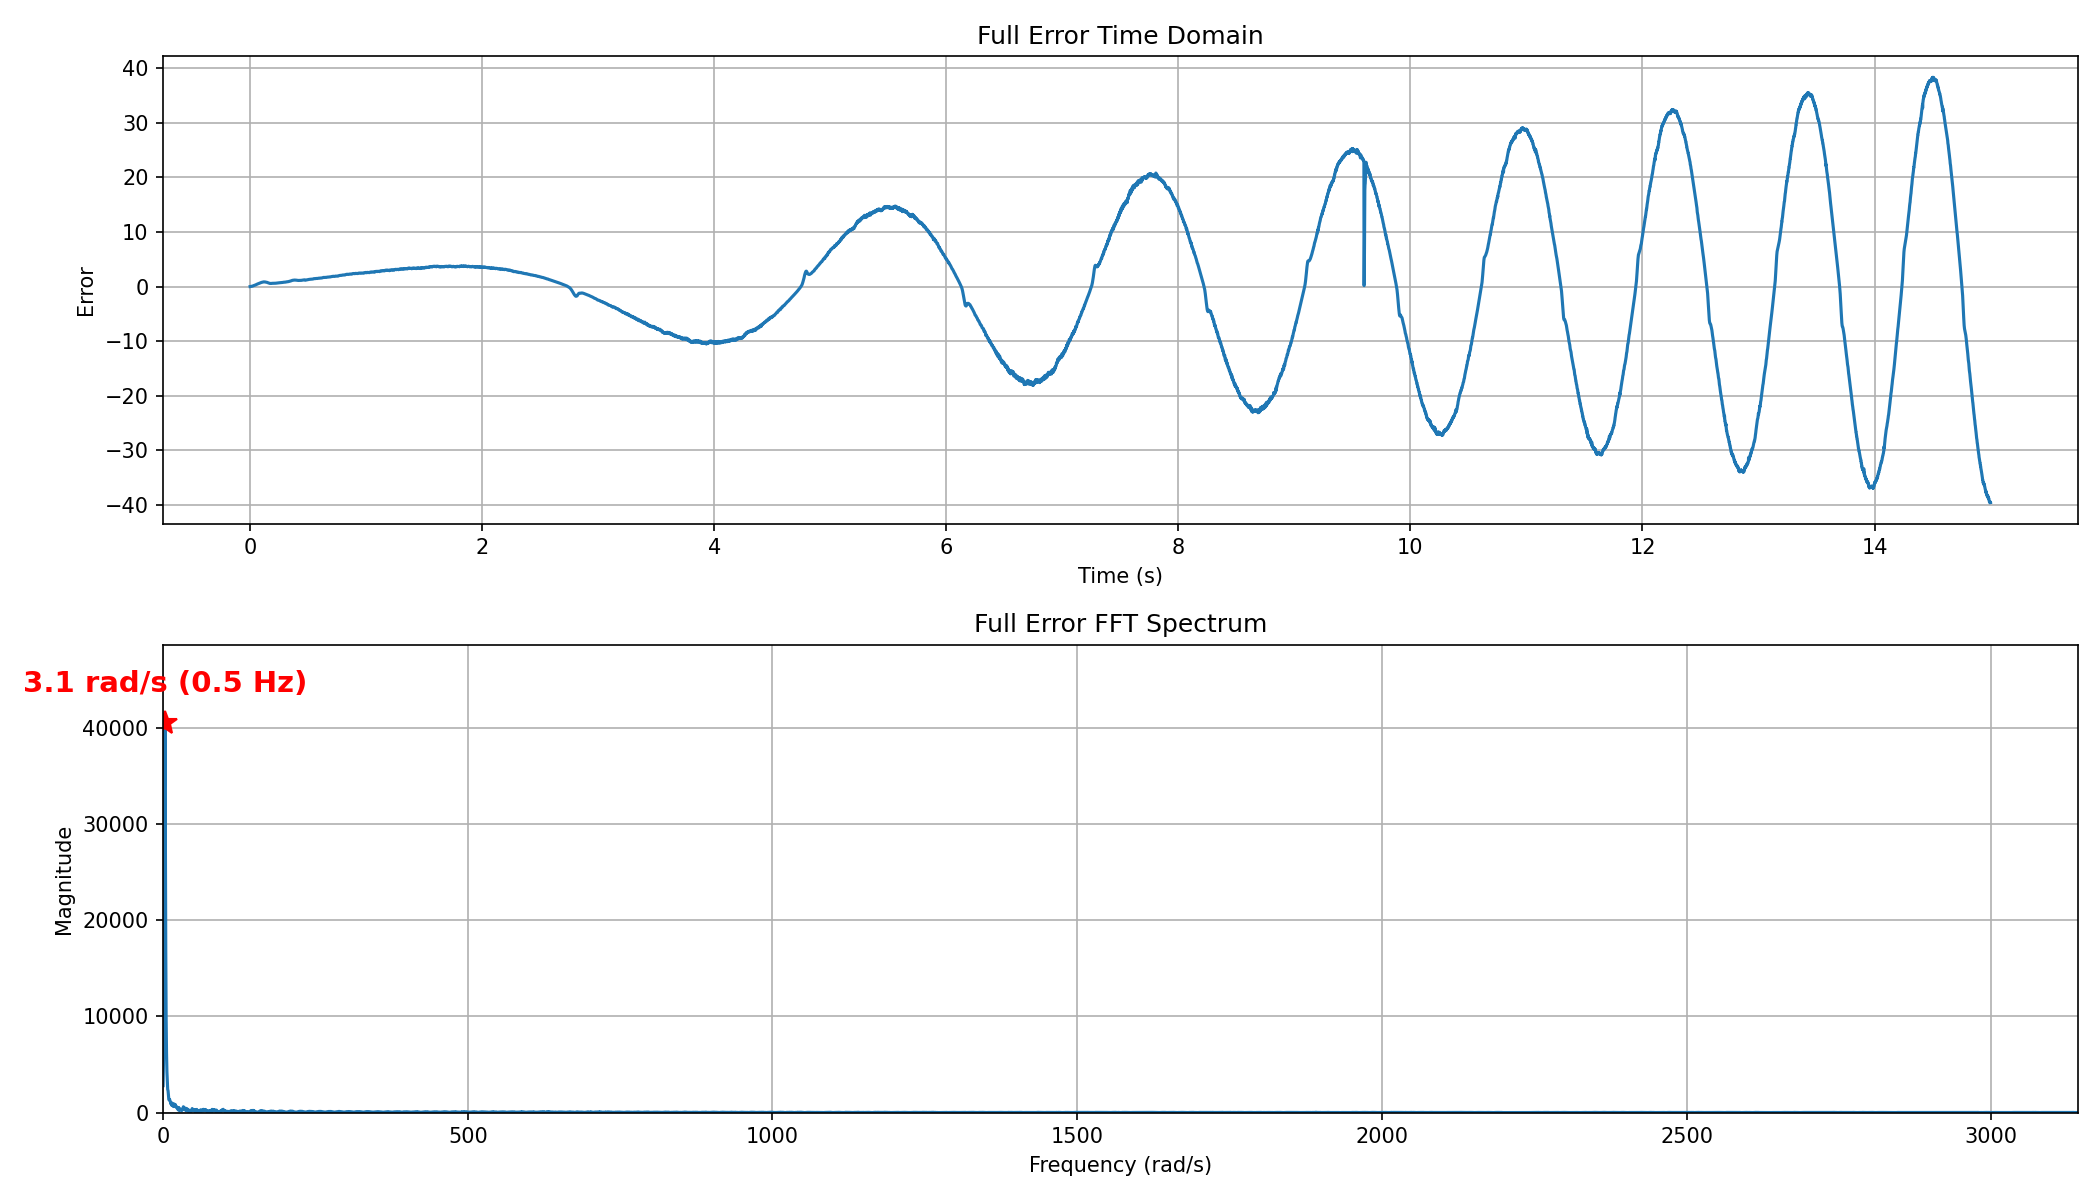
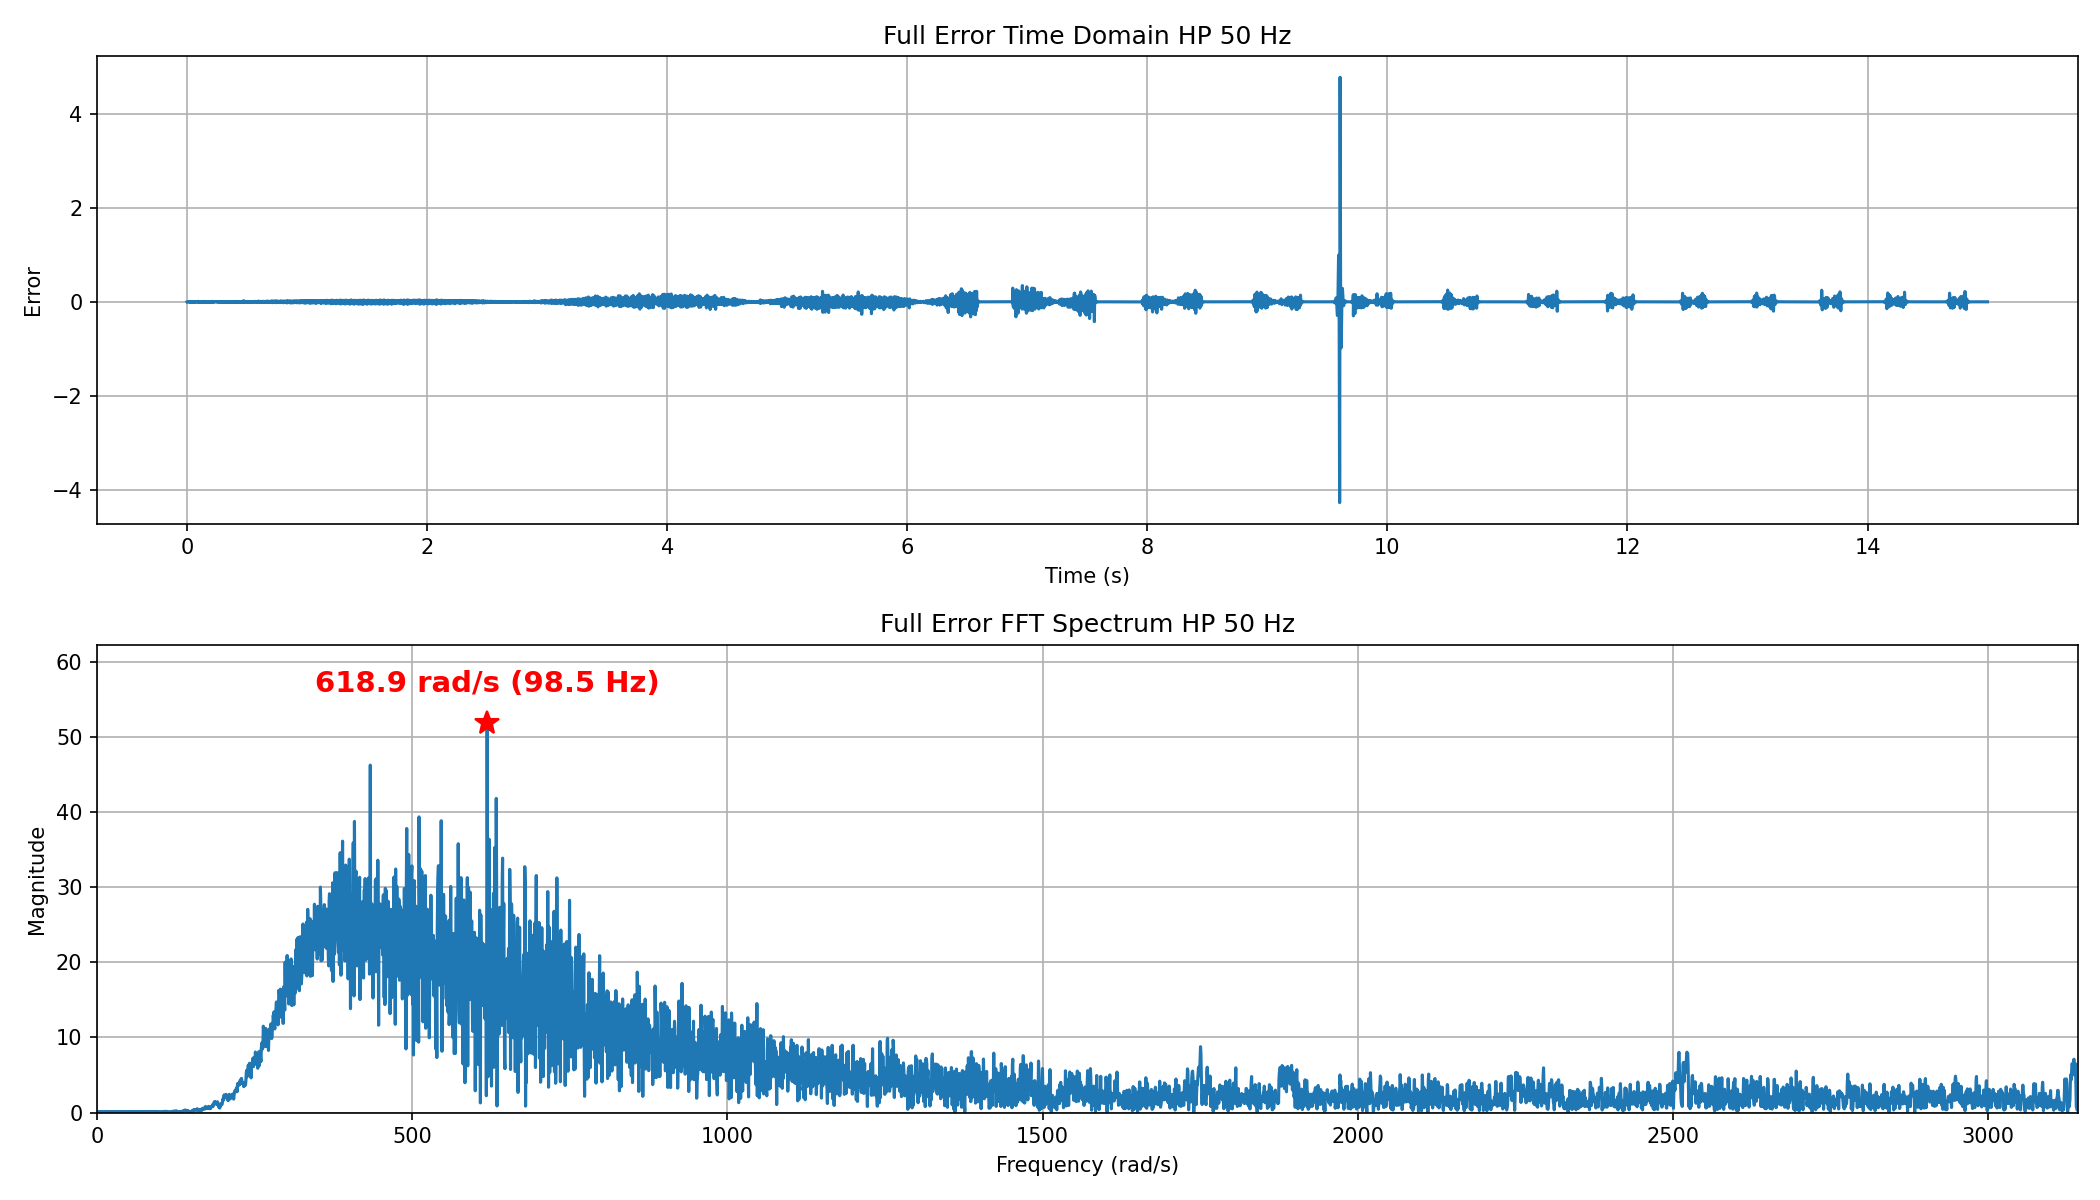
Plot_Full_FFT: 加入高通濾波、異常值移除功能

diff --git a/Main/Plot_Full_FFT.py b/Main/Plot_Full_FFT.py
@@ -7,6 +7,15 @@ import matplotlib.pyplot as plt
 import scipy.fft
 import scipy.signal
 
+# ============================================================
+# 配置參數
+# ============================================================
+HIGHPASS_FREQ_HZ = 50  # 高通濾波頻率 (Hz)，設為 None 則不濾波
+TIME_START = None      # 起始時間 (秒)，設為 None 則從頭開始
+TIME_END = None        # 結束時間 (秒)，設為 None 則到最後
+OUTLIER_THRESHOLD = 1  # 異常值門檻（標準差倍數），設為 None 則不移除
+# ============================================================
+
 
 def select_data_file() -> str:
     """選擇 runtime_data.npz 檔案"""
@@ -42,13 +51,58 @@ def main():
 
     # 合併所有誤差
     all_errors = np.concatenate(error_list)
+    total_time = len(all_errors) * Ts
+    print(f'總時間: {total_time:.2f} 秒')
+    
+    # 時間段截取
+    start_idx = int(TIME_START / Ts) if TIME_START else 0
+    end_idx = int(TIME_END / Ts) if TIME_END else len(all_errors)
+    start_idx = max(0, start_idx)
+    end_idx = min(len(all_errors), end_idx)
+    all_errors = all_errors[start_idx:end_idx]
+    time_offset = start_idx * Ts
+    
+    if TIME_START or TIME_END:
+        actual_start = start_idx * Ts
+        actual_end = end_idx * Ts
+        print(f'選取時間段: {actual_start:.2f} ~ {actual_end:.2f} 秒 ({len(all_errors)} 點)')
+    
     all_errors = all_errors - np.mean(all_errors)
 
+    # 移除異常值（脈衝尖峰）
+    if OUTLIER_THRESHOLD:
+        std = np.std(all_errors)
+        threshold = OUTLIER_THRESHOLD * std
+        outlier_mask = np.abs(all_errors) > threshold
+        outlier_count = np.sum(outlier_mask)
+        if outlier_count > 0:
+            # 用線性插值替代異常值
+            all_errors_clean = all_errors.copy()
+            indices = np.arange(len(all_errors))
+            valid_mask = ~outlier_mask
+            all_errors_clean[outlier_mask] = np.interp(
+                indices[outlier_mask], 
+                indices[valid_mask], 
+                all_errors[valid_mask]
+            )
+            print(f'移除異常值: {outlier_count} 點 (>{OUTLIER_THRESHOLD}σ, σ={std:.2f})')
+            all_errors = all_errors_clean
+
+    # 高通濾波 (時域處理)
+    if HIGHPASS_FREQ_HZ:
+        nyquist = 0.5 / Ts
+        highpass_normalized = HIGHPASS_FREQ_HZ / nyquist
+        b, a = scipy.signal.butter(4, highpass_normalized, btype='high')
+        all_errors_filtered = scipy.signal.filtfilt(b, a, all_errors)
+        print(f'高通濾波: {HIGHPASS_FREQ_HZ} Hz (Butterworth 4th order)')
+    else:
+        all_errors_filtered = all_errors
+
     # FFT with zero-padding for better frequency resolution
-    N_original = len(all_errors)
+    N_original = len(all_errors_filtered)
     N_fft = 10000  # 增加FFT點數 (zero-padding)
     window = np.hanning(N_original)
-    windowed_errors = window * all_errors
+    windowed_errors = window * all_errors_filtered
     yf = scipy.fft.fft(windowed_errors, n=N_fft)
     xf = scipy.fft.fftfreq(N_fft, Ts)
 
@@ -60,8 +114,8 @@ def main():
     print(f'頻率分辨率: {freq_resolution_rad:.6f} rad/s')
     freq_limit_rad = 500 * 2 * np.pi
     print(f'0-{freq_limit_rad:.0f} rad/s 數據點數: {len(omega[omega < freq_limit_rad])}\n')
-
-    # 僅查看設定上限對應的 rad/s 範圍
+    
+    # 僅查看設定範圍對應的 rad/s
     mask = omega < freq_limit_rad
     omega_plot = omega[mask]
     magnitude_plot = magnitude[mask]
@@ -81,10 +135,16 @@ def main():
     plt.figure(figsize=(14, 8))
 
     plt.subplot(2, 1, 1)
-    plt.plot(np.arange(len(all_errors)) * Ts, all_errors)
+    time_axis = np.arange(len(all_errors_filtered)) * Ts + time_offset
+    plt.plot(time_axis, all_errors_filtered)
     plt.xlabel('Time (s)')
     plt.ylabel('Error')
-    plt.title('Full Error Time Domain')
+    title_parts = ['Full Error Time Domain']
+    if TIME_START or TIME_END:
+        title_parts.append(f'({time_offset:.1f}~{time_offset + len(all_errors_filtered)*Ts:.1f}s)')
+    if HIGHPASS_FREQ_HZ:
+        title_parts.append(f'HP {HIGHPASS_FREQ_HZ} Hz')
+    plt.title(' '.join(title_parts))
     plt.grid(True)
 
     plt.subplot(2, 1, 2)
@@ -92,7 +152,12 @@ def main():
     plt.plot(top_freqs, top_mags, 'r*', markersize=12)
     plt.xlabel('Frequency (rad/s)')
     plt.ylabel('Magnitude')
-    plt.title('Full Error FFT Spectrum')
+    fft_title_parts = ['Full Error FFT Spectrum']
+    if TIME_START or TIME_END:
+        fft_title_parts.append(f'({time_offset:.1f}~{time_offset + len(all_errors_filtered)*Ts:.1f}s)')
+    if HIGHPASS_FREQ_HZ:
+        fft_title_parts.append(f'HP {HIGHPASS_FREQ_HZ} Hz')
+    plt.title(' '.join(fft_title_parts))
     plt.xlim([0, freq_limit_rad])
     plt.ylim([0, np.max(magnitude_plot) * 1.2])
     for f, m in zip(top_freqs, top_mags):
